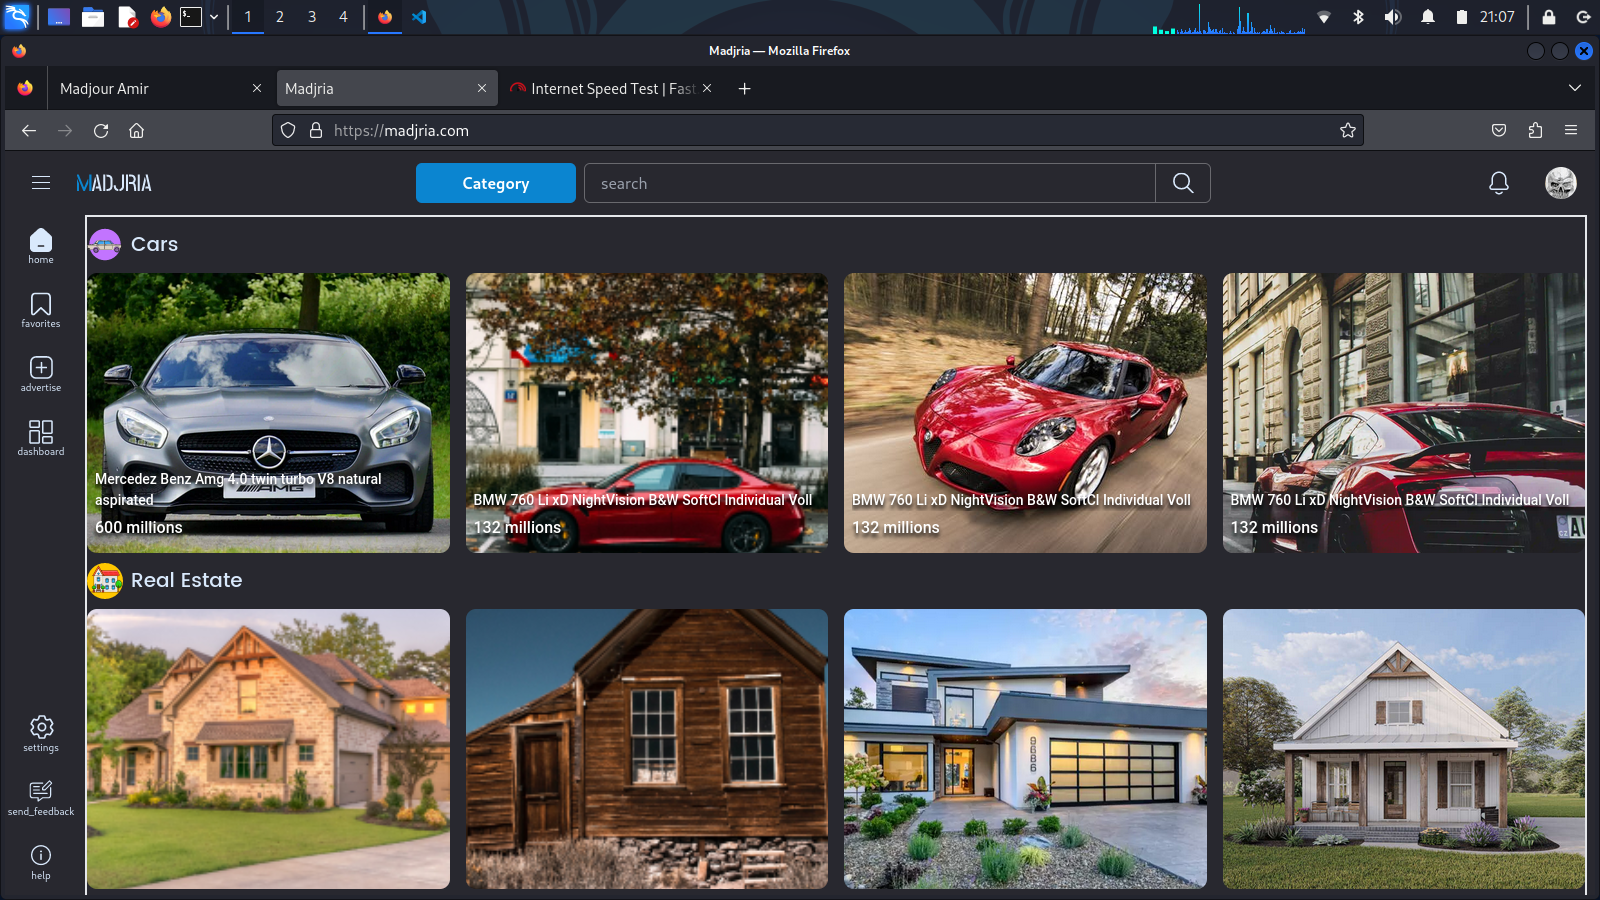
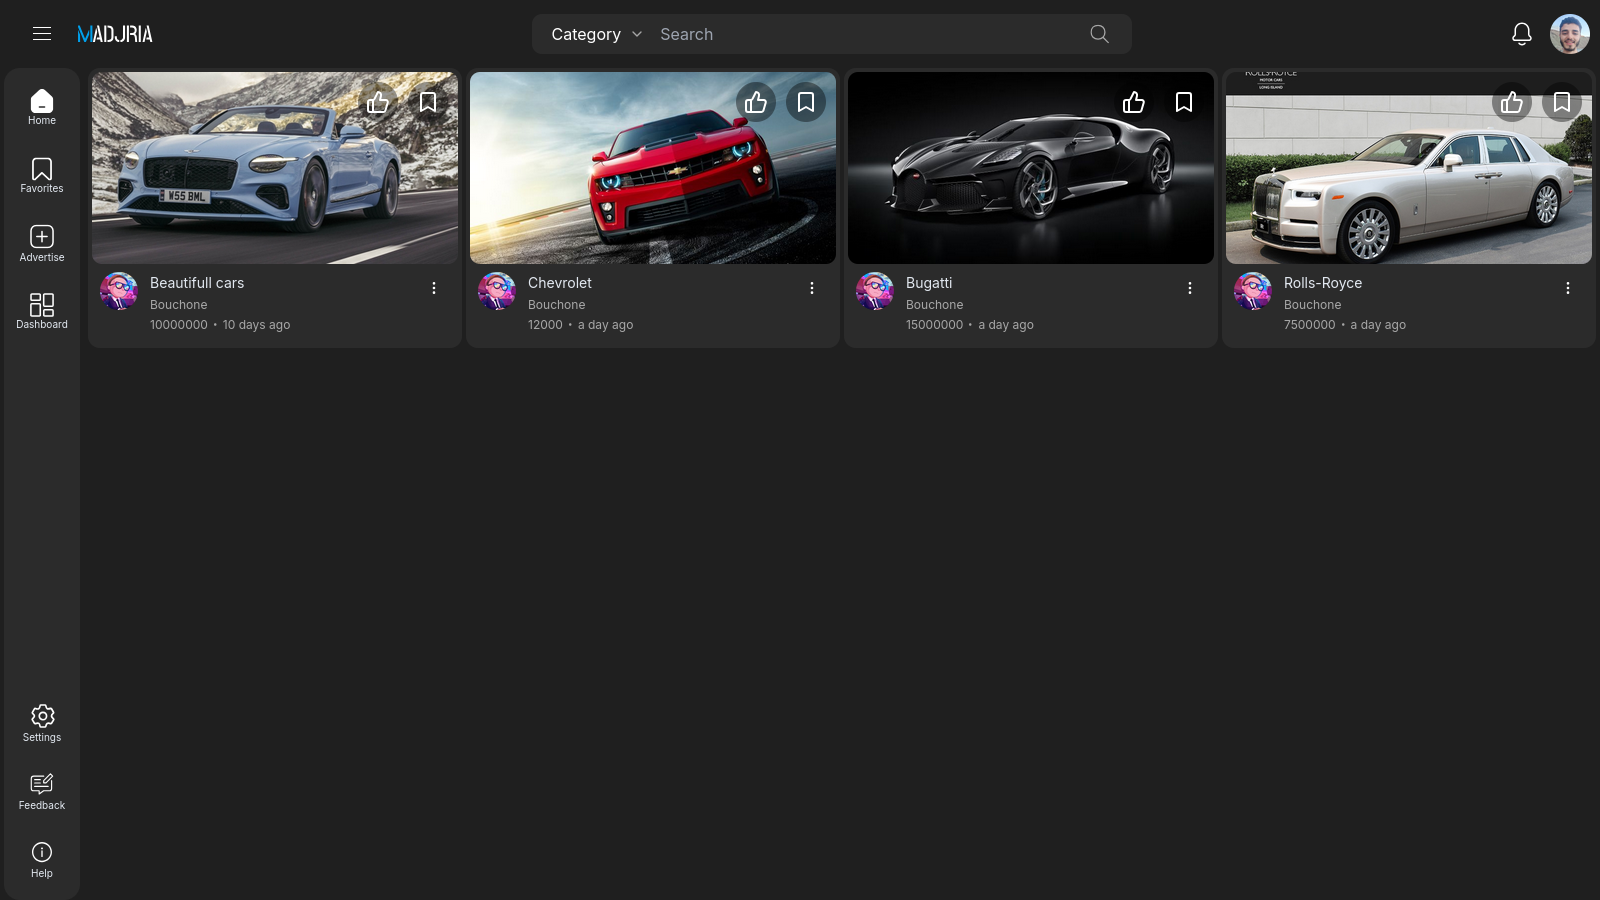
Video for majlis app

diff --git a/app/about/[projectName]/page.jsx b/app/about/[projectName]/page.jsx
@@ -1,7 +1,7 @@
 import projectsData from "@/public/json/projects.json";
 import clsx from "clsx";
 import Link from "next/link";
-import macBook from "@/public/images/other/macbook-NoCopyRight.jpg";
+import macBook from "@/public/images/other/pc.jpg";
 import Image from "next/image";
 import DelayedLink from "@/components/nav/DelayedLink";
 
@@ -77,13 +77,29 @@ const Page = ({ params }) => {
           height={0}
           alt=""
         ></Image>
-        <Image
-          src={macBook}
-          width={300}
-          height={0}
-          alt=""
-          className="w-full h-auto object-contain"
-        />
+        {project.includeVideo && (
+          <div className="relative w-full h-auto">
+            <Image
+              src={macBook}
+              width={300}
+              height={0}
+              alt=""
+              className="w-full h-auto object-contain"
+            />
+            <video
+              autoPlay
+              muted
+              loop
+              className="absolute left-1/2 top-16 z-[1] w-[73.5%] -translate-x-1/2"
+            >
+              <source
+                src="https://madjria.com/api/assets/videos/majlis/MajlisVideoGithub.mp4"
+                type="video/mp4"
+              />
+              Your browser does not support the video tag.
+            </video>
+          </div>
+        )}
         <Image
           src={
             process.env.NODE_ENV !== "production"
@@ -95,13 +111,6 @@ const Page = ({ params }) => {
           height={0}
           alt=""
         ></Image>
-        <Image
-          src={macBook}
-          width={300}
-          height={0}
-          alt=""
-          className="w-full h-auto object-contain"
-        />
         {project.includePhoneImages && (
           <div
             className={clsx(
